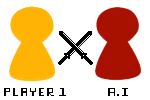
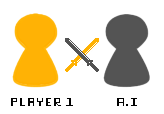
redid the left panel layout, added graphics

diff --git a/ConnectFour/src/MainWindow.java b/ConnectFour/src/MainWindow.java
@@ -1,3 +1,6 @@
+import java.awt.BorderLayout;
+import java.awt.GridBagConstraints;
+import java.awt.GridBagLayout;
 import java.awt.GridLayout;
 import java.io.IOException;
 import java.util.ArrayList;
@@ -26,8 +29,8 @@ public class MainWindow {
 	private JRadioButton hard;
 	private ButtonGroup bg;
     GridLayout experimentLayout = new GridLayout(7,7);
-    GridLayout leftSideLayout = new GridLayout(7,1,10,10);
-    GridLayout outsideLayout = new GridLayout(1,1);
+    GridBagLayout leftSideLayout = new GridBagLayout();
+    GridBagConstraints con;
     List<JLabel> holes = new ArrayList<JLabel>();
     private JPanel leftPanel;
     private JPanel experiment;
@@ -63,20 +66,22 @@ public class MainWindow {
 		// create the connect4 panel
 		connect4Panel = new Connect4Panel(this);
         connect4Panel.setLayout(experimentLayout);
-		restart = new JButton("Restart");
+        con = new GridBagConstraints();
+        
+        // create the leftPanel
+		restart = new JButton("Restart");		
 		pvp =  new JButton ("Player VS Player");
 		mvp = new JButton ("Player VS Computer");
 		easy = new JRadioButton ("Easy Mode");
 		easy.setSelected(true);
 		hard = new JRadioButton ("Hard Mode");
+		
         //Creates outside Panel
-        //Adds buttons on left side
         outsidePanel = new JPanel();
         outsidePanel.add(leftPanel);
-        outsidePanel.add(connect4Panel);
+        outsidePanel.add(connect4Panel );
         
-        //Add buttons to Grid
-      
+       
         //create token buttons 
         tokens = new ArrayList<JButton>(7);
         createTopButtons();
@@ -176,12 +181,36 @@ public class MainWindow {
 	
 	public void createLeftButtons(){
 		
-        leftPanel.add(pvp);
-        leftPanel.add(easy);
-        leftPanel.add(hard);
-        
-        leftPanel.add(mvp);
-        leftPanel.add(restart);
+        con.fill = GridBagConstraints.CENTER;
+		con.gridx = 0;
+		con.gridy = 1;
+		con.gridwidth = 2;
+
+        leftPanel.add(pvp, con);
+        con.fill = GridBagConstraints.CENTER;
+		con.gridx = 0;
+		con.gridy = 2;
+		con.gridwidth = 1;
+
+        leftPanel.add(easy, con);
+        con.fill = GridBagConstraints.CENTER;
+		con.gridx = 1;
+		con.gridy = 2;
+		con.gridwidth = 1;
+
+        leftPanel.add(hard, con);
+        con.fill = GridBagConstraints.CENTER;
+		con.gridx = 0;
+		con.gridy = 3;
+		con.gridwidth = 2;
+
+        leftPanel.add(mvp, con);
+        con.fill = GridBagConstraints.PAGE_END;
+		con.gridx = 0;
+		con.gridy = 4;
+		con.gridwidth = 2;
+
+        leftPanel.add(restart, con);
 		restart.addActionListener(connect4Panel);
 		pvp.addActionListener(connect4Panel);
 		mvp.addActionListener(connect4Panel);
@@ -189,20 +218,21 @@ public class MainWindow {
 	
 	public void drawGame(String name, int turn){
 		leftPanel.removeAll();
-
-		if (name.equals("pvp")){
-			leftPanel.add(new JLabel(new ImageIcon("src/pvp.png")));	
-		} else {
-			leftPanel.add(new JLabel(new ImageIcon("src/mvp.png")));
-		}
 		
-		createLeftButtons();
-	
-		if (turn % 2 == 0){
-			leftPanel.add(new JLabel ("It is Player 1 Turn!", JLabel.CENTER));
-		} else {
-			leftPanel.add(new JLabel ("It is Player 2 Turn!", JLabel.CENTER));
+		con.fill = GridBagConstraints.PAGE_START;
+		con.gridx = 0;
+		con.gridy = 0;
+		con.gridwidth = 2;
+		
+		if (name.equals("pvp") && turn % 2 == 0){
+			leftPanel.add(new JLabel(new ImageIcon("src/pvp 1.png")), con);	
+		} else if (name.equals("pvp") && turn % 2 == 1){
+			leftPanel.add(new JLabel(new ImageIcon("src/pvp 2.png")), con);
+		} else{
+			leftPanel.add(new JLabel(new ImageIcon("src/mvp.png")), con);
 		}
+	
+		createLeftButtons();
 
 		leftPanel.revalidate();
 
